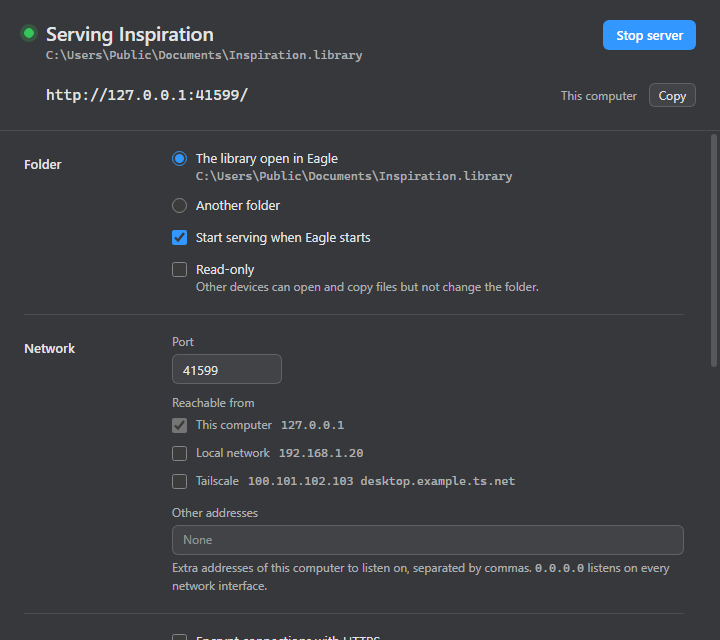
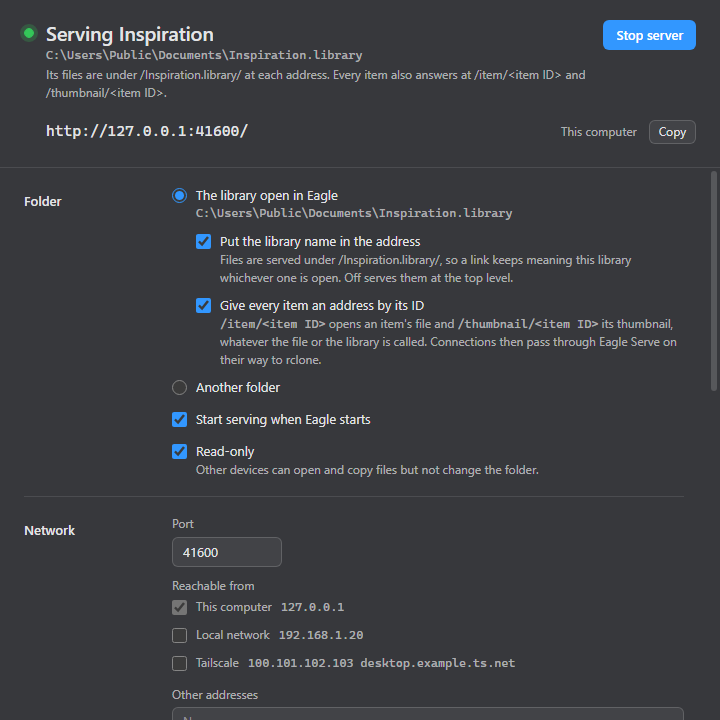
docs: record why there is no context menu entry, refresh screenshot
Add docs/context-menu-findings.md with what Eagle 4.0 build 23 allows for
item context menus and what a Copy Eagle Serve Link entry would take.
Retake the README screenshot with the current window.

diff --git a/docs/context-menu-findings.md b/docs/context-menu-findings.md
@@ -1,0 +1,94 @@
+# Why there is no "Copy Eagle Serve Link" menu item
+
+**Status:** not built. Investigated 2026-10-12 against Eagle 4.0 build 23 (`buildVersion` 20260401) on Windows.
+
+## The question
+
+Eagle Serve can give every item a stable address (`/item/<ID>` and `/thumbnail/<ID>`). The obvious way to get one would be to right-click an item in Eagle and choose something like **Copy Eagle Serve Link**. Can this plugin add that entry to Eagle's item context menu?
+
+## Short answer
+
+Not from Eagle Serve itself. Eagle lists plugins in a **Plugin** submenu of the item context menu, but it leaves out background-service plugins, and Eagle Serve has to be one to start with Eagle. A menu entry is possible only through a second, separate window plugin. That companion plugin has not been built, because it needs two decisions that have not been made (see [What is undecided](#what-is-undecided)).
+
+## What Eagle allows
+
+### The plugin API has no menu hook
+
+- `eagle.contextMenu.open(menuItems)` pops up a menu that the plugin opens itself, inside its own window. It does not add anything to Eagle's menus.
+- The four plugin types (window, background service, format extension, inspector) do not include one that registers menu entries, and `manifest.json` has no field for it.
+- The **Search by Image** entries in the item menu look like a plugin adding itself, but they are part of Eagle: their labels are Eagle's own strings (`context.image.reverseSearch`, `context.image.reverseSearchLocal`), and the Search by Image plugin's manifest contains nothing that registers them.
+
+### The Plugin submenu
+
+Eagle builds a **Plugin** submenu into the item context menu on its own. The code is in `resources/app.asar` and is readable as plain JavaScript. A plugin is listed when this holds:
+
+```js
+const executable = !!manifest.main;
+const isServicePlugin = manifest?.main?.serviceMode;
+if (executable && !isServicePlugin && !pluginModule.isPluginDisabled(manifest.id)) { … }
+```
+
+That is: the plugin has a window (`main` in its manifest), it is not a background service, and it is not disabled.
+
+What an entry is:
+
+| Property | Value |
+| --- | --- |
+| Label | The plugin's `name` from its manifest |
+| Icon | The plugin's `logo` |
+| Shortcut shown | The keyboard shortcut assigned to the plugin, if any |
+| Action | `pluginModule.open(plugin)`, the same as launching the plugin from the plugin panel |
+| Order | The three most recently opened plugins under a "recent" label, a separator, then the rest alphabetically |
+
+Consequences:
+
+- **One entry per plugin.** A plugin cannot add several entries or choose its own label.
+- **Nothing is passed to the plugin.** It finds out what was right-clicked by calling `eagle.item.getSelected()` when it runs.
+- **Eagle Serve is excluded**, because its manifest sets `main.serviceMode`. Removing that would put it in the menu and stop it starting with Eagle, which is the point of the plugin.
+
+## Why it is not built
+
+A menu entry would have to come from a companion window plugin, for example one named **Copy Eagle Serve Link**. When launched it would:
+
+1. Read the selected items with `eagle.item.getSelected()`.
+2. Read Eagle Serve's settings from its data folder (`config.json`, see the README) to learn the port, whether HTTPS is on, and whether item links are on.
+3. Put `https://<address>:<port>/item/<ID>` for each selected item on the clipboard.
+4. Show a notification and close its own window.
+
+This was not done for these reasons:
+
+- **It is a second plugin.** One `.eagleplugin` holds one plugin, so the repository would need a second manifest and entry page, and `scripts/build-release.js` would need to stage and pack two packages. Users would install two things.
+- **Two product decisions are open** (next section).
+- **Parts of the approach are untested.** Whether a window plugin can run and close without visibly flashing a window, and how Eagle treats a plugin that closes itself immediately, have not been tried.
+- **Item links are opt-in.** The companion would only be useful with **Give every item an address by its ID** turned on, and would need to say so when it is off.
+
+### What is undecided
+
+1. **What the entry should do.** Copy the item link, the thumbnail link, a Markdown embed, or offer a choice. Since each plugin gets exactly one entry, several actions mean either several companion plugins or one entry that opens a small chooser.
+2. **Which address goes into the link.** The server answers on several at once (`127.0.0.1`, the computer name, the LAN address, the Tailscale address and name). Nothing in the settings says which one links should use. A "use this address in copied links" setting would have to be added to Eagle Serve, most likely defaulting to the computer name.
+
+## Other ways to reach a plugin from an item
+
+Noted while investigating, none of them built:
+
+- **Inspector panel.** An inspector plugin shows a section in the right-hand panel for the selected item (Extra Links works this way). It could show the item's links with copy buttons. Whether one plugin can be both a background service and an inspector has not been tested; it may also need a companion.
+- **Keyboard shortcut.** Eagle lets a shortcut be assigned to a plugin (plugin panel > right-click > **Shortcuts**). This launches the plugin the same way the menu entry does, so it has the same service-plugin question.
+- **Middle click.** Preferences has **Wheel button behavior > Run Plugin**. How it chooses which plugin to run was not checked.
+- **Pinned plugins.** Eagle's toolbar shows pinned plugins as icons. Whether a service plugin can be pinned was not checked.
+- **Extra Links.** Eagle Serve could write each item's link into the Extra Links plugin through its local API, so the link shows in the inspector without a new plugin. This ties the feature to a second plugin being installed.
+
+## Checking this again on a newer Eagle
+
+The rule above comes from Eagle's own code, so it can change between versions. To re-check, print the code around the service-plugin test:
+
+```bash
+node -e "
+const fs = require('fs');
+const buf = fs.readFileSync('C:/Program Files/Eagle/resources/app.asar');
+const at = buf.indexOf('const isServicePlugin = manifest?.main?.serviceMode;');
+console.log(at < 0 ? 'not found: the code has changed' :
+    buf.subarray(at - 400, at + 900).toString('latin1').replace(/[^\x20-\x7e]+/g, ' '));
+"
+```
+
+If the condition no longer excludes service plugins, Eagle Serve may already be in the **Plugin** submenu, and the feature becomes a matter of handling `eagle.onPluginRun` inside this plugin.

diff --git a/README.md b/README.md
@@ -6,6 +6,8 @@ It is the plugin form of [webdav-server-kit](https://github.com/coreyx/webdav-se
 
 ![Eagle Serve window](assets/screenshot.png)
 
+*The window with item links turned on, serving on a non-default port.*
+
 ---
 
 ## ✨ Features
@@ -118,6 +120,7 @@ The ID is looked up in the library being served each time, from the item's `imag
 - An ID from a library that is not the one open in Eagle returns 404.
 - After a rename, the new file can take up to the folder listing cache time (5 seconds by default) to appear.
 - With this on, connections go through a small HTTP layer inside the plugin on their way to rclone (see [How It Works](#-how-it-works)). The ordinary WebDAV addresses keep working unchanged.
+- There is no right-click entry in Eagle for copying an item's link yet. [docs/context-menu-findings.md](docs/context-menu-findings.md) explains what Eagle allows and what building one would take.
 
 > **Writing to a library from outside Eagle.** **Read-only** is on by default. With it off, connected devices can change and delete files in the library, including deleting the whole library folder in one request, and Eagle does not expect files to change underneath it. Turn it off only if you have a specific reason to write.
 
@@ -294,6 +297,8 @@ eagle-serve/
 │       └── build.yml                 # CI: test, build .eagleplugin, publish release on version tags
 ├── assets/
 │   └── screenshot.png                # Window screenshot for this README
+├── docs/
+│   └── context-menu-findings.md      # Why there is no right-click "Copy Eagle Serve Link" entry
 ├── css/
 │   └── style.css                     # Native Eagle theming (6 themes) and layout
 ├── js/
